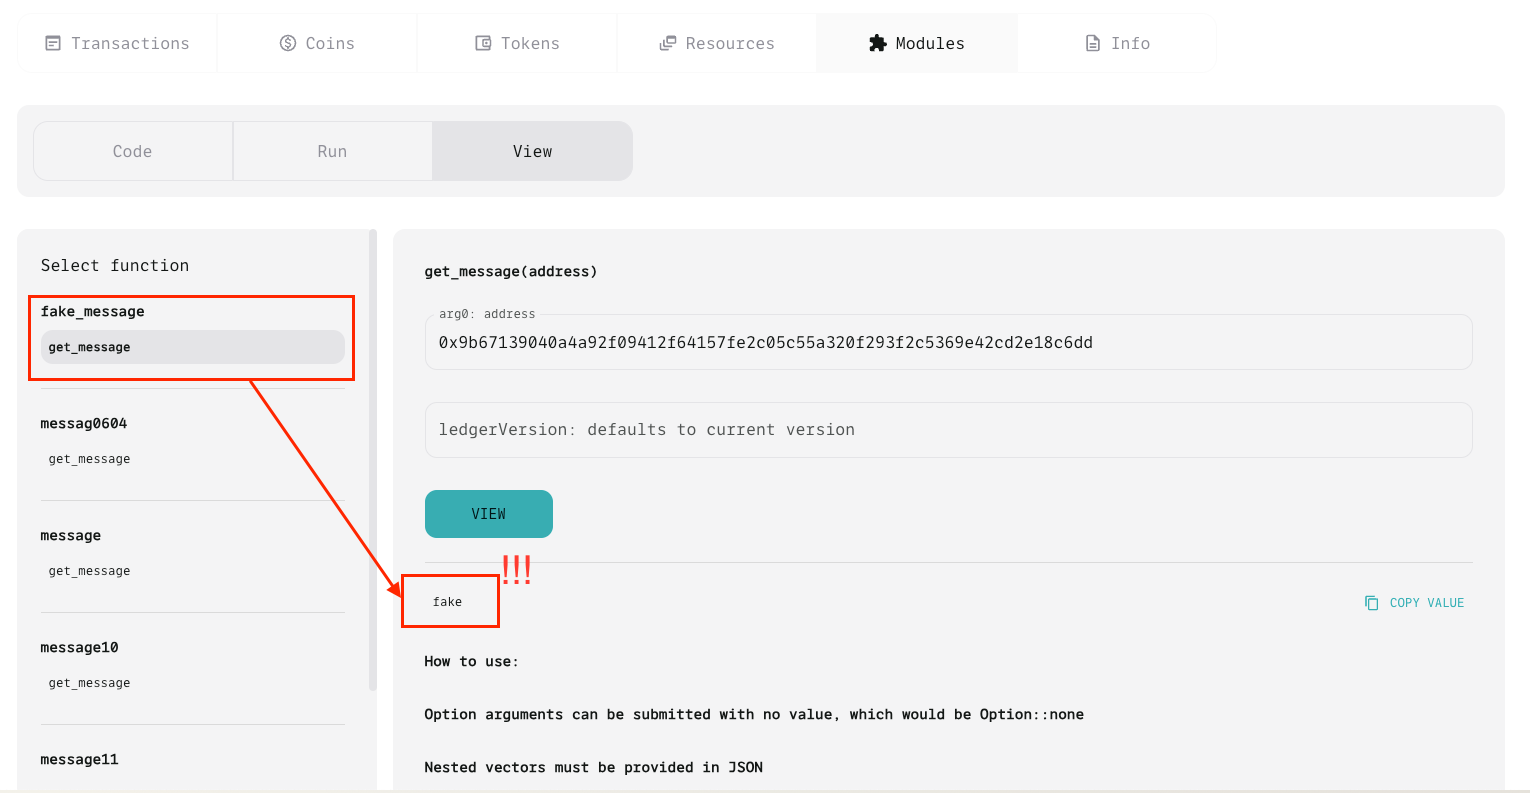
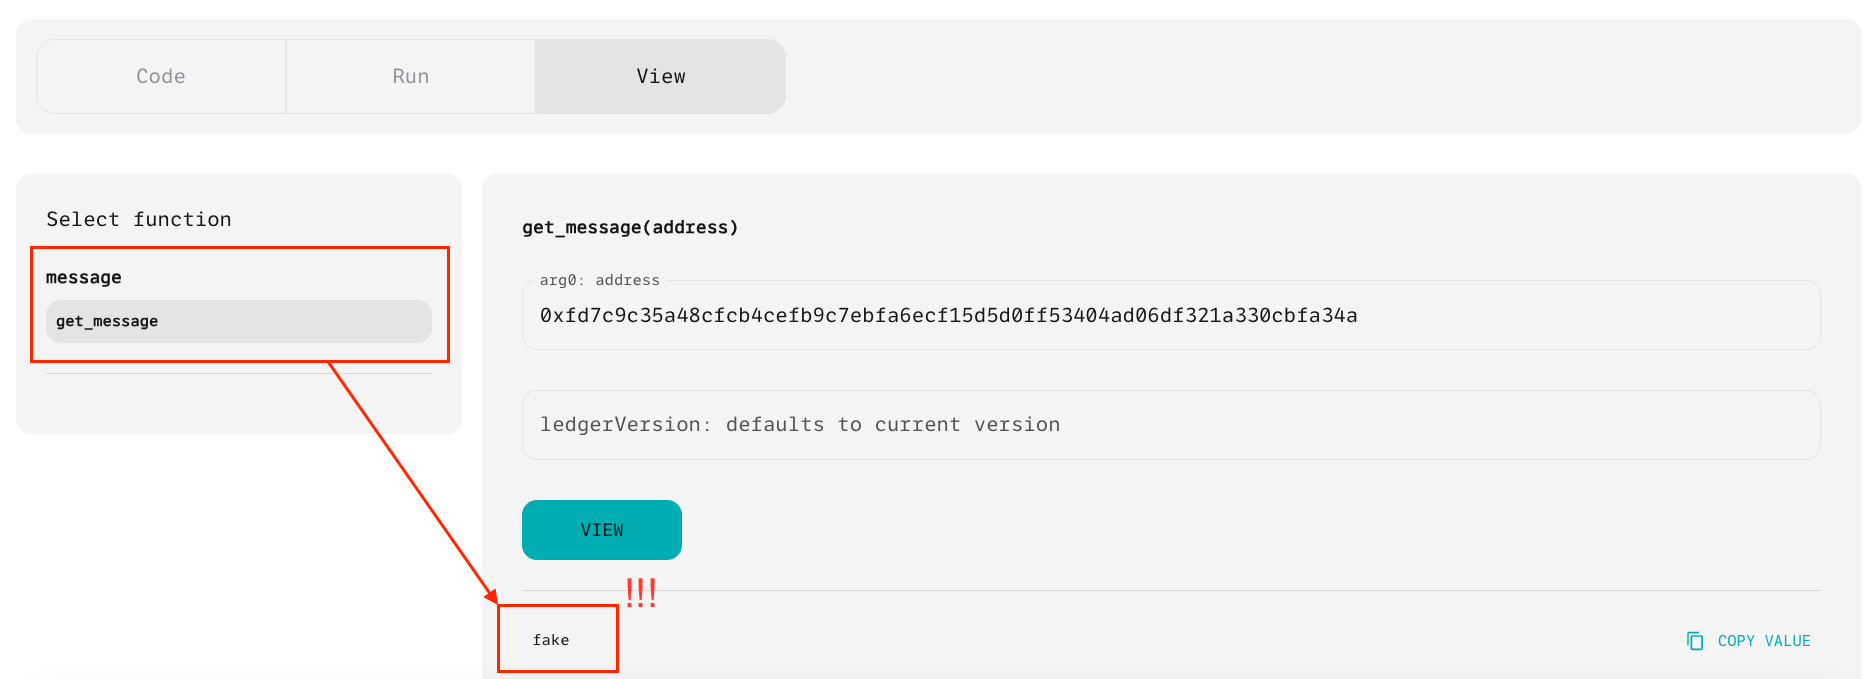
change fake message example account

diff --git a/src/components/Verification/Aptos/Aptos.tsx b/src/components/Verification/Aptos/Aptos.tsx
@@ -254,7 +254,7 @@ export const Aptos = () => {
           <Typography variant="h6" gutterBottom>
             1. Check {` `}
             <a
-              href="https://explorer.aptoslabs.com/account/0x9b67139040a4a92f09412f64157fe2c05c55a320f293f2c5369e42cd2e18c6dd/modules/code/fake_message/set_message?network=testnet"
+              href="https://explorer.aptoslabs.com/account/0xfd7c9c35a48cfcb4cefb9c7ebfa6ecf15d5d0ff53404ad06df321a330cbfa34a/modules/code/message/set_message?network=testnet"
               target="_blank"
             >
               the package code
@@ -274,7 +274,7 @@ export const Aptos = () => {
           <Typography variant="h6" gutterBottom>
             2. Call {` `}
             <a
-              href="https://explorer.aptoslabs.com/account/0x9b67139040a4a92f09412f64157fe2c05c55a320f293f2c5369e42cd2e18c6dd/modules/run/fake_message/set_message?network=testnet"
+              href="https://explorer.aptoslabs.com/account/0xfd7c9c35a48cfcb4cefb9c7ebfa6ecf15d5d0ff53404ad06df321a330cbfa34a/modules/run/message/set_message?network=testnet"
               target="_blank"
             >
               set_message
@@ -290,7 +290,7 @@ export const Aptos = () => {
           <Typography variant="h6" gutterBottom>
             3. Query {` `}
             <a
-              href="https://explorer.aptoslabs.com/account/0x9b67139040a4a92f09412f64157fe2c05c55a320f293f2c5369e42cd2e18c6dd/modules/view/fake_message/get_message?network=testnet"
+              href="https://explorer.aptoslabs.com/account/0xfd7c9c35a48cfcb4cefb9c7ebfa6ecf15d5d0ff53404ad06df321a330cbfa34a/modules/view/message/get_message?network=testnet"
               target="_blank"
             >
               get_message
@@ -339,7 +339,7 @@ export const Aptos = () => {
                   </a>
                 </Typography>
                 <CodeBlock>
-                  {`curl --location 'https://api.welldonestudio.io/compiler/aptos/verifications?network=testnet&account=0x9b67139040a4a92f09412f64157fe2c05c55a320f293f2c5369e42cd2e18c6dd&moduleName=message'`}
+                  {`curl --location 'https://api.welldonestudio.io/compiler/aptos/verifications?network=testnet&account=0xfd7c9c35a48cfcb4cefb9c7ebfa6ecf15d5d0ff53404ad06df321a330cbfa34a&moduleName=message'`}
                 </CodeBlock>
               </Typography>
               <Typography variant="body1" gutterBottom>
@@ -347,7 +347,7 @@ export const Aptos = () => {
                 <CodeBlock>
                   {`{
     "network": "testnet",
[2 lines of base64/hex data omitted]
     "moduleName": "message",
     "isRemixSrcUploaded": true,
     "status": "NOT_VERIFIED"
@@ -378,7 +378,7 @@ export const Aptos = () => {
 --header 'Content-Type: application/json' \\
 --data '{
     "network": "testnet",
[2 lines of base64/hex data omitted]
     "moduleName": "message99"
 }'`}
                 </CodeBlock>
@@ -388,7 +388,7 @@ export const Aptos = () => {
                 <CodeBlock>
                   {`{
     "network": "testnet",
[2 lines of base64/hex data omitted]
     "moduleName": "message",
     "status": "VERIFIED_SAME"
 }`}
@@ -445,8 +445,11 @@ export const Aptos = () => {
                   lineHeight: '1.5',
                 }}
               >
-                Once the package is compiled and deployed, it will automatically be stored in the
-                database and will appear on this page's list.
+                Dependencies should be defined by git or located in internal directory. Dependencies
+                located in external path is not supported like {` `}
+                <code>{`AptosFramework = { local = "../../../framework/aptos-framework" }`}</code>{' '}
+                <br />
+                <br />
                 <img
                   src={'/img/contrubution/aptos/verification/aptos-plugin-dependencies.png'}
                   alt="aptos-plugin-dependencies"
